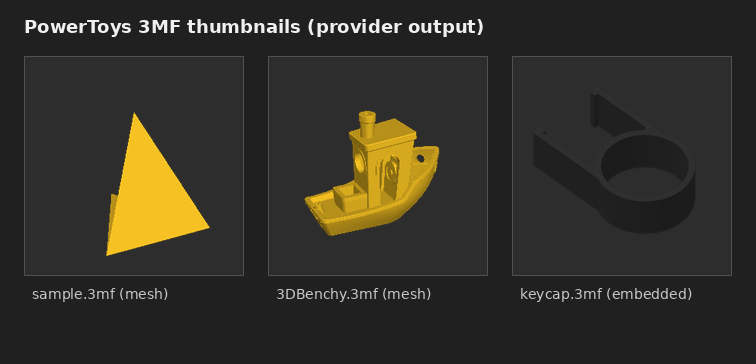
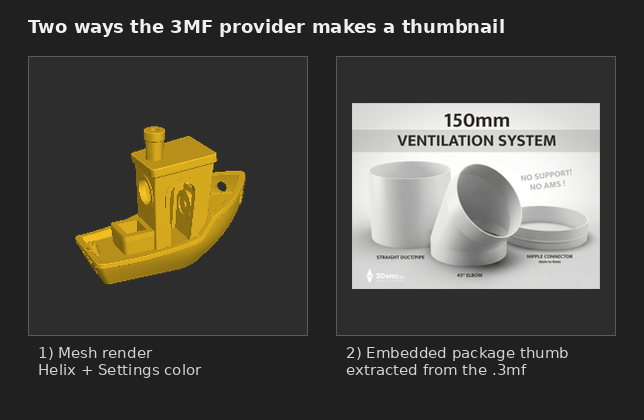
Clarify 3MF screenshot pair and prefer named package thumbnails

diff --git a/src/modules/previewpane/ThreeMfThumbnailProvider/ThreeMfModelLoader.cs b/src/modules/previewpane/ThreeMfThumbnailProvider/ThreeMfModelLoader.cs
@@ -92,21 +92,9 @@ namespace Microsoft.PowerToys.ThumbnailHandler.ThreeMf
 
         private static ZipArchiveEntry FindThumbnailEntry(ZipArchive archive)
         {
-            // Prefer relationship targets and explicitly named thumbnail files before any Metadata/* image.
-            // Some slicer packages ship multiple Metadata PNGs (plates, picks, etc.).
-            var relationshipTargets = GetThumbnailTargetsFromRelationships(archive);
-            foreach (var target in relationshipTargets)
-            {
-                var entry = archive.GetEntry(target) ??
-                            archive.Entries.FirstOrDefault(e =>
-                                e.FullName.Replace('\\', '/').EndsWith(target.TrimStart('/'), StringComparison.OrdinalIgnoreCase));
-
-                if (entry != null)
-                {
-                    return entry;
-                }
-            }
-
+            // Prefer files actually named thumbnail* (e.g. Auxiliaries/.thumbnails/thumbnail_3mf.png).
+            // Slicer packages often also ship dark Metadata/plate_*.png previews and relationships that
+            // point at those plates; those are a last resort only.
             ZipArchiveEntry namedThumbnail = null;
             ZipArchiveEntry metadataFallback = null;
 
@@ -130,7 +118,24 @@ namespace Microsoft.PowerToys.ThumbnailHandler.ThreeMf
                 }
             }
 
-            return namedThumbnail ?? metadataFallback;
+            if (namedThumbnail != null)
+            {
+                return namedThumbnail;
+            }
+
+            foreach (var target in GetThumbnailTargetsFromRelationships(archive))
+            {
+                var entry = archive.GetEntry(target) ??
+                            archive.Entries.FirstOrDefault(e =>
+                                e.FullName.Replace('\\', '/').EndsWith(target.TrimStart('/'), StringComparison.OrdinalIgnoreCase));
+
+                if (entry != null)
+                {
+                    return entry;
+                }
+            }
+
+            return metadataFallback;
         }
 
         private static IEnumerable<string> GetThumbnailTargetsFromRelationships(ZipArchive archive)
